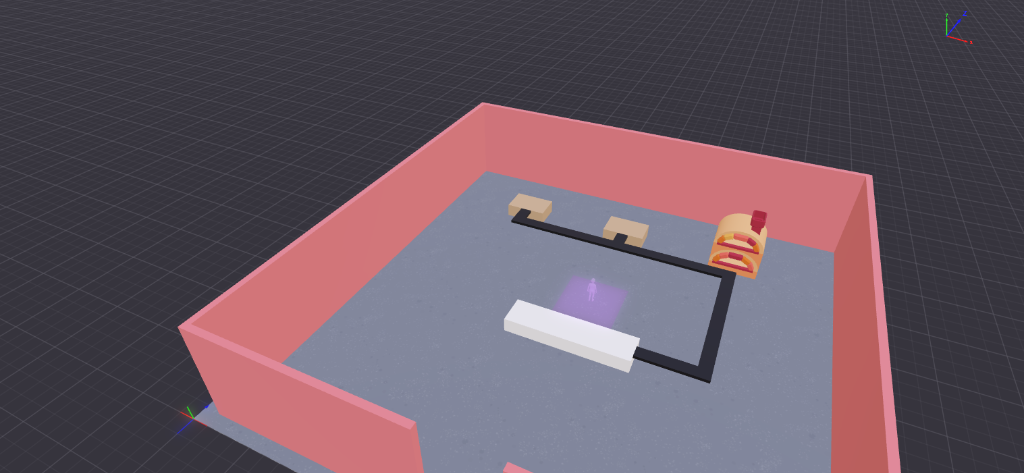
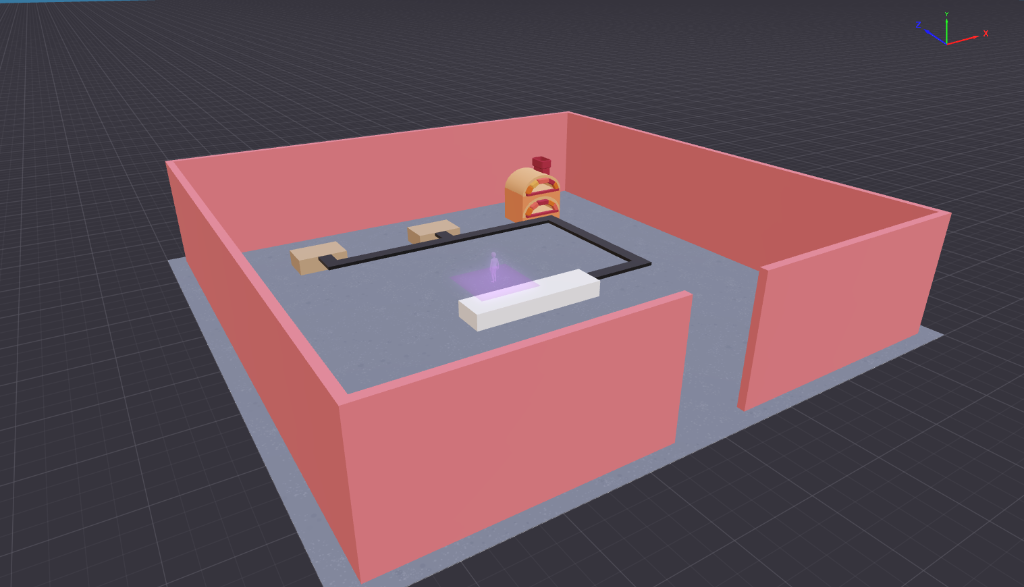
feat: add SmokeEmitter entity and integrate smoke effects in Horno station

diff --git a/src/client/stations/horno.ts b/src/client/stations/horno.ts
@@ -1,5 +1,13 @@
-import { Entity, LightSource, Transform, engine } from '@dcl/sdk/ecs'
-import { Color3 } from '@dcl/sdk/math'
+import {
+  Entity,
+  LightSource,
+  PBParticleSystem_BlendMode,
+  PBParticleSystem_PlaybackState,
+  ParticleSystem,
+  Transform,
+  engine
+} from '@dcl/sdk/ecs'
+import { Color3, Color4 } from '@dcl/sdk/math'
 import { EntityNames } from '../../../assets/scene/entity-names'
 import { sendPizzaAlongPath } from '../conveyor'
 import { showFloatingText } from '../feedback'
@@ -41,28 +49,80 @@ export function setupHornoStation(h: HornoHandlers) {
   handlers = h
   // No pre-stock — the oven starts empty and waits for the first topped pizza
   // to arrive from the toppings station.
-  setOvenLight('off')
+  initSmokeEmitter()
+  setOvenAmbience('off')
   engine.addSystem(bakingTimerSystem)
 }
 
-// The light hanging inside Station_Horno reflects what's going on with the
-// pizza: warm orange while it bakes normally, red when it has burnt, and off
-// whenever the oven is empty.
-type OvenLightState = 'off' | 'fire' | 'burnt'
+// Both the light hanging inside Station_Horno and the smoke wisp above it
+// reflect what's happening to the pizza: warm orange + light grey smoke
+// while baking normally, red light + dark dense smoke once it's burnt, and
+// off whenever the oven is empty.
+type OvenState = 'off' | 'fire' | 'burnt'
 
-const FIRE_COLOR = Color3.create(1, 0.647, 0)
-const BURNT_COLOR = Color3.create(1, 0.1, 0.1)
+const FIRE_LIGHT_COLOR = Color3.create(1, 0.647, 0)
+const BURNT_LIGHT_COLOR = Color3.create(1, 0.1, 0.1)
 
-function setOvenLight(state: OvenLightState) {
+const SMOKE_FIRE_START = Color4.create(0.6, 0.6, 0.6, 0.5)
+const SMOKE_FIRE_END = Color4.create(0.4, 0.4, 0.4, 0)
+const SMOKE_BURNT_START = Color4.create(0.15, 0.15, 0.15, 0.7)
+const SMOKE_BURNT_END = Color4.create(0.05, 0.05, 0.05, 0)
+
+const SMOKE_RATE_NORMAL = 20
+const SMOKE_RATE_BURNT = SMOKE_RATE_NORMAL * 2
+
+// Attach the ParticleSystem to the SmokeEmitter child entity (which lives in
+// the composite under Station_Horno). Called once at setup so we just mutate
+// the component afterwards. The emitter starts stopped — setOvenAmbience
+// turns it on/off as pizzas come and go.
+function initSmokeEmitter() {
+  const smoke = getEntityByName(EntityNames.SmokeEmitter)
+  ParticleSystem.createOrReplace(smoke, {
+    rate: SMOKE_RATE_NORMAL,
+    lifetime: 2.5,
+    maxParticles: 150,
+    initialSize: { start: 0.15, end: 0.3 },
+    sizeOverTime: { start: 1.0, end: 2.5 },
+    initialColor: { start: SMOKE_FIRE_START, end: SMOKE_FIRE_START },
+    colorOverTime: { start: SMOKE_FIRE_START, end: SMOKE_FIRE_END },
+    initialVelocitySpeed: { start: 0.3, end: 0.6 },
+    gravity: -0.15,
+    blendMode: PBParticleSystem_BlendMode.PSB_ALPHA,
+    shape: ParticleSystem.Shape.Cone({ angle: 15, radius: 0.15 }),
+    loop: true,
+    playbackState: PBParticleSystem_PlaybackState.PS_STOPPED
+  })
+}
+
+function setOvenAmbience(state: OvenState) {
+  // Light
   const light = getEntityByName(EntityNames.Horno_Light)
   const ls = LightSource.getMutableOrNull(light)
-  if (!ls) return
-  if (state === 'off') {
-    ls.active = false
-    return
+  if (ls) {
+    if (state === 'off') {
+      ls.active = false
+    } else {
+      ls.active = true
+      ls.color = state === 'burnt' ? BURNT_LIGHT_COLOR : FIRE_LIGHT_COLOR
+    }
   }
-  ls.active = true
-  ls.color = state === 'burnt' ? BURNT_COLOR : FIRE_COLOR
+
+  // Smoke
+  const smoke = getEntityByName(EntityNames.SmokeEmitter)
+  const ps = ParticleSystem.getMutableOrNull(smoke)
+  if (ps) {
+    if (state === 'off') {
+      ps.playbackState = PBParticleSystem_PlaybackState.PS_STOPPED
+    } else {
+      ps.playbackState = PBParticleSystem_PlaybackState.PS_PLAYING
+      const burnt = state === 'burnt'
+      ps.rate = burnt ? SMOKE_RATE_BURNT : SMOKE_RATE_NORMAL
+      const startC = burnt ? SMOKE_BURNT_START : SMOKE_FIRE_START
+      const endC = burnt ? SMOKE_BURNT_END : SMOKE_FIRE_END
+      ps.initialColor = { start: startC, end: startC }
+      ps.colorOverTime = { start: startC, end: endC }
+    }
+  }
 }
 
 // Called by the conveyor when a pizza arrives from toppings. Replaces the
@@ -82,7 +142,7 @@ export function discardActivePizza(): boolean {
   if (!currentPizza) return false
   discardPizzaWithAnimation(currentPizza)
   currentPizza = null
-  setOvenLight('off')
+  setOvenAmbience('off')
   console.log('[Horno] pizza discarded')
   return true
 }
@@ -130,7 +190,7 @@ function onInsertClick(pizza: Entity) {
     if (!s) return
     s.bakeStartTime = Date.now() / 1000
     updatePizzaStep(pizza, PizzaStep.Baking)
-    setOvenLight('fire')
+    setOvenAmbience('fire')
     refreshHandler(pizza)
     console.log('[Horno] pizza in the oven — baking…')
   })
@@ -144,7 +204,7 @@ function onSendToDeliveryClick(pizza: Entity) {
   const sent = handlers?.onSendToDelivery(pizza) ?? false
   if (sent) {
     currentPizza = null
-    setOvenLight('off')
+    setOvenAmbience('off')
   } else {
     showFloatingText(pizza, 'Delivery busy!')
     console.log('[Horno] delivery is busy — wait until it is free')
@@ -165,7 +225,7 @@ function bakingTimerSystem(_dt: number) {
     console.log('[Horno] pizza is perfect — take it out before it burns!')
   } else if (state.step === PizzaStep.Perfect && elapsed >= BAKE_TIME_BURNT) {
     updatePizzaStep(currentPizza, PizzaStep.Burnt)
-    setOvenLight('burnt')
+    setOvenAmbience('burnt')
     refreshHandler(currentPizza)
     console.log('[Horno] pizza burnt!')
   }

diff --git a/assets/scene/entity-names.ts b/assets/scene/entity-names.ts
@@ -29,6 +29,7 @@ export enum EntityNames {
   Slot_Toppings = "Slot_Toppings",
   Slot_Toppings_To_Horno_Conveyor_1 = "Slot_Toppings_To_Horno_Conveyor_1",
   Slot_Toppings_To_Horno_Conveyor_2 = "Slot_Toppings_To_Horno_Conveyor_2",
+  SmokeEmitter = "SmokeEmitter",
   Station_Delivery = "Station_Delivery",
   Station_Horno = "Station_Horno",
   Station_Masa = "Station_Masa",